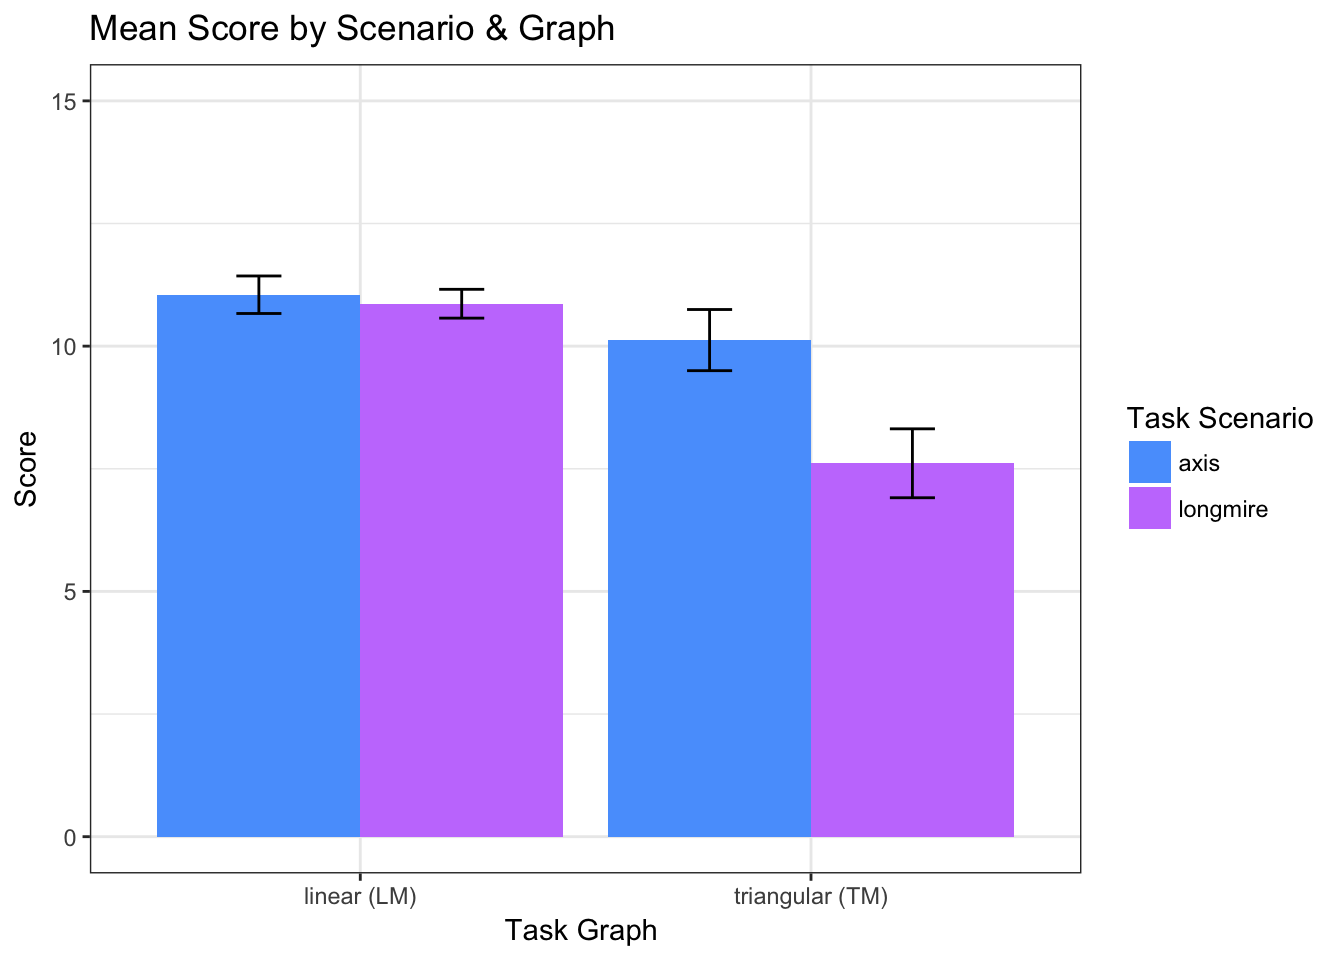
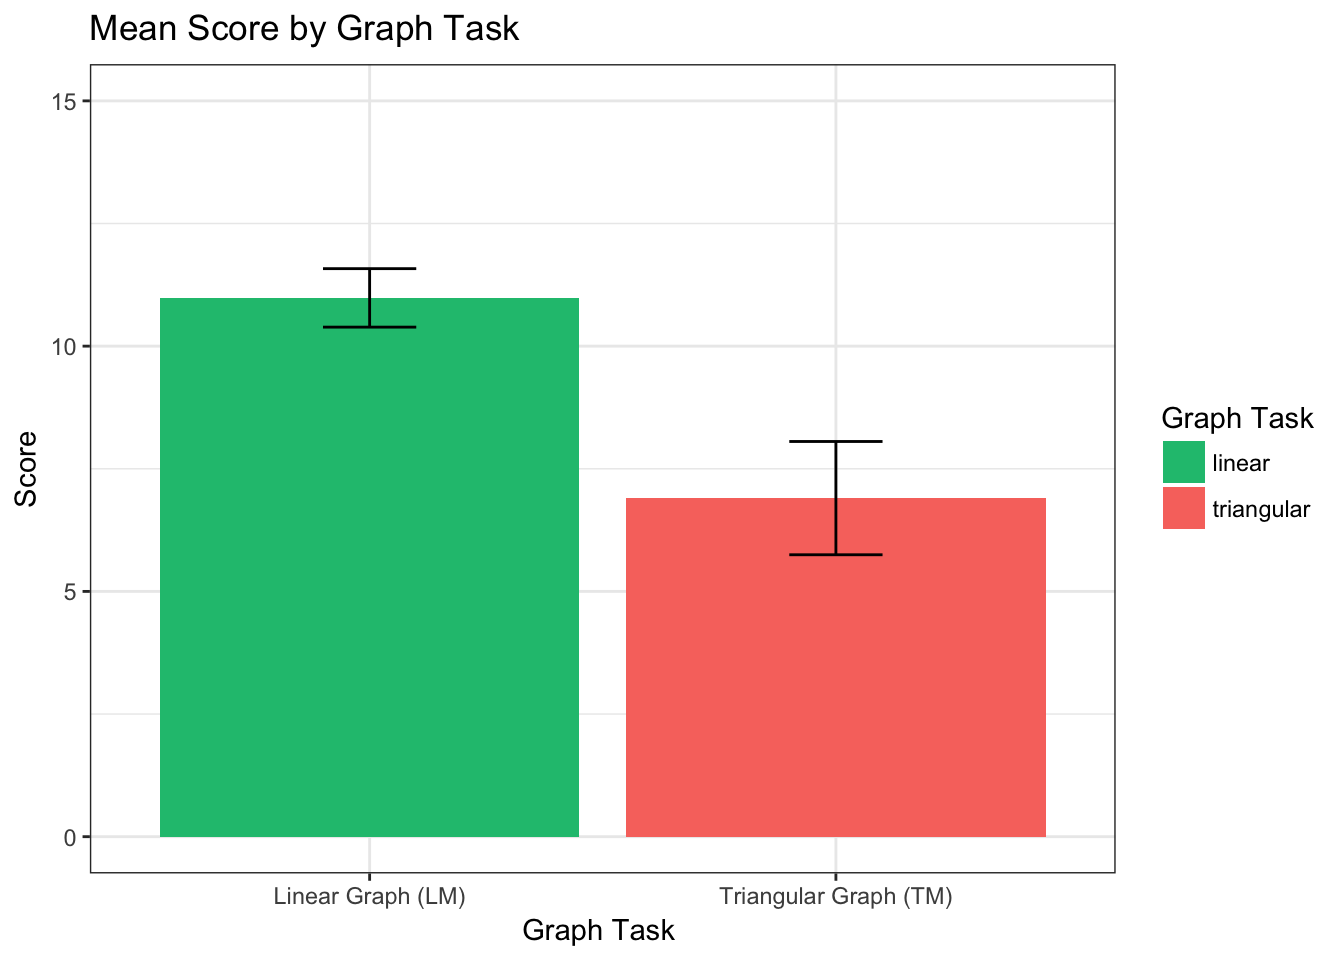
update S2 hypo testing

diff --git a/docs/Study2.html b/docs/Study2.html
@@ -371,6 +371,193 @@ mixedPlot_scenario &lt;- ggplot(l_scores, aes(condition,value, fill=variable))+ 
   #use scale_fill_manual to manually change colors 
 mixedPlot_scenario</code></pre>
 <p><img src="Study2_files/figure-html/unnamed-chunk-7-2.png" width="672" /></p>
+<div id="hypothesis-1-scaffold-conditon-and-graph-order-will-not-affect-performance-on-the-lm-graph-because-it-is-conventional-and-relatively-easy-to-read" class="section level5">
+<h5>Hypothesis 1: Scaffold conditon and graph-order will not affect performance on the LM graph, because it is conventional and relatively easy to read</h5>
+<p>When we compare LM scores both graph-orders and scaffold-conditions (and scenarios), we do not find significant differences</p>
+<pre class="r"><code>#explore descriptive statistics based on each IV
+
+#LM SCORES BY SCAFFOLD
+desc_control &lt;- by(w_scores$linear_score, list(w_scores$condition), stat.desc, basic=FALSE)
+desc_control
+## : 0
+##       median         mean      SE.mean CI.mean.0.95          var 
+##   11.0000000   10.9836066    0.2979821    0.5960530    5.4163934 
+##      std.dev     coef.var 
+##    2.3273146    0.2118898 
+## -------------------------------------------------------- 
+## : 1
+##       median         mean      SE.mean CI.mean.0.95          var 
+##   11.0000000   11.0677966    0.2848856    0.5702604    4.7884278 
+##      std.dev     coef.var 
+##    2.1882477    0.1977130 
+## -------------------------------------------------------- 
+## : 2
+##       median         mean      SE.mean CI.mean.0.95          var 
+##   11.0000000   10.8939394    0.2618998    0.5230500    4.5270396 
+##      std.dev     coef.var 
+##    2.1276841    0.1953090 
+## -------------------------------------------------------- 
+## : 3
+##       median         mean      SE.mean CI.mean.0.95          var 
+##   11.0000000   10.9193548    0.2790958    0.5580865    4.8294553 
+##      std.dev     coef.var 
+##    2.1976022    0.2012575 
+## -------------------------------------------------------- 
+## : 4
+##       median         mean      SE.mean CI.mean.0.95          var 
+##   11.0000000   10.8970588    0.2286922    0.4564716    3.5564091 
+##      std.dev     coef.var 
+##    1.8858444    0.1730599
+
+#LM SCORES BY GRAPH-ORDER
+desc_control &lt;- by(w_scores$linear_score, list(w_scores$order), stat.desc, basic=FALSE)
+desc_control
+## : LMFirst
+##       median         mean      SE.mean CI.mean.0.95          var 
+##   11.0000000   10.8636364    0.1767556    0.3491966    4.8113488 
+##      std.dev     coef.var 
+##    2.1934787    0.2019102 
+## -------------------------------------------------------- 
+## : TMFirst
+##       median         mean      SE.mean CI.mean.0.95          var 
+##   11.0000000   11.0308642    0.1629851    0.3218642    4.3033893 
+##      std.dev     coef.var 
+##    2.0744612    0.1880597
+
+#ONE WAY ANOVA ON LM_SCORE BY SCAFFOLD
+#construct contrasts for ANOVA model
+options(contrasts=c(&quot;contr.sum&quot;,&quot;contr.poly&quot;))
+
+simpleModel = ezANOVA(data = w_scores,
+                     dv = .(linear_score),
+                     wid = .(subject),
+                     between = .(condition),
+                     type = 3,
+                     detailed = TRUE)
+## Warning: Converting &quot;subject&quot; to factor for ANOVA.
+## Warning: Data is unbalanced (unequal N per group). Make sure you specified
+## a well-considered value for the type argument to ezANOVA().
+simpleModel
+## $ANOVA
+##        Effect DFn DFd          SSn      SSd            F             p
+## 1 (Intercept)   1 311 37802.682529 1429.846 8.222307e+03 9.970330e-226
+## 2   condition   4 311     1.343692 1429.846 7.306522e-02  9.902577e-01
+##   p&lt;.05          ges
+## 1     * 0.9635545750
+## 2       0.0009388633
+## 
+## $`Levene&#39;s Test for Homogeneity of Variance`
+##   DFn DFd      SSn     SSd         F        p p&lt;.05
+## 1   4 311 2.502129 499.865 0.3891861 0.816348
+
+#ONE WAY ANOVA ON LM_SCORE BY GRAPH-ORDER
+simpleModel = ezANOVA(data = w_scores,
+                     dv = .(linear_score),
+                     wid = .(subject),
+                     between = .(order),
+                     type = 3,
+                     detailed = TRUE)
+## Warning: Converting &quot;subject&quot; to factor for ANOVA.
+
+## Warning: Data is unbalanced (unequal N per group). Make sure you specified
+## a well-considered value for the type argument to ezANOVA().
+simpleModel
+## $ANOVA
+##        Effect DFn DFd          SSn      SSd            F             p
+## 1 (Intercept)   1 314 37845.891375 1428.982 8316.1366183 5.300368e-228
+## 2       order   1 314     2.207831 1428.982    0.4851418  4.866178e-01
+##   p&lt;.05         ges
+## 1     * 0.963615871
+## 2       0.001542654
+## 
+## $`Levene&#39;s Test for Homogeneity of Variance`
+##   DFn DFd         SSn      SSd           F         p p&lt;.05
+## 1   1 314 0.009384583 502.3577 0.005865858 0.9389994
+
+#ONE WAY ANOVA ON LM_SCORE BY SCENARIO
+simpleModel = ezANOVA(data = w_scores,
+                     dv = .(linear_score),
+                     wid = .(subject),
+                     between = .(lm_scenarios),
+                     type = 3,
+                     detailed = TRUE)
+## Warning: Converting &quot;subject&quot; to factor for ANOVA.
+
+## Warning: Data is unbalanced (unequal N per group). Make sure you specified
+## a well-considered value for the type argument to ezANOVA().
+simpleModel
+## $ANOVA
+##         Effect DFn DFd          SSn      SSd            F             p
+## 1  (Intercept)   1 314 37714.168900 1428.553 8289.6834729 8.583230e-228
+## 2 lm_scenarios   1 314     2.637255 1428.553    0.5796762  4.470107e-01
+##   p&lt;.05         ges
+## 1     * 0.963504004
+## 2       0.001842701
+## 
+## $`Levene&#39;s Test for Homogeneity of Variance`
+##   DFn DFd      SSn      SSd        F        p p&lt;.05
+## 1   1 314 2.707298 499.6598 1.701341 0.193068</code></pre>
+</div>
+<div id="hypothesis-2-learners-without-scaffolding-control-will-perform-better-with-the-lm-than-tm." class="section level5">
+<h5>Hypothesis 2: Learners without scaffolding (control) will perform better with the LM than TM.</h5>
+<pre class="r"><code>#explore descriptive statistics based on each IV
+desc_control &lt;- by(l_scores_control$value, list(l_scores_control$variable), stat.desc, basic=FALSE)
+desc_control
+## : linear_score
+##       median         mean      SE.mean CI.mean.0.95          var 
+##   11.0000000   10.9836066    0.2979821    0.5960530    5.4163934 
+##      std.dev     coef.var 
+##    2.3273146    0.2118898 
+## -------------------------------------------------------- 
+## : triangular_score
+##       median         mean      SE.mean CI.mean.0.95          var 
+##    6.0000000    6.9016393    0.5772106    1.1545931   20.3234973 
+##      std.dev     coef.var 
+##    4.5081590    0.6532012
+LM_mean = desc_control$linear_score[2]
+LM_SD = desc_control$linear_score[6]
+TM_mean = desc_control$triangular_score[2]
+TM_SD = desc_control$triangular_score[6]</code></pre>
+<p>If we compare LM and TM scores (across both graph-orders) for the participants in the control condition, we expect their LM scores will be significantly higer than the TM scores.</p>
+<pre class="r"><code>#CALULCULATE POSTHOC DIFFERENCE &amp; EFFECT SIZE
+mainEffectGraph  &lt;- t.test(value ~ variable, data=l_scores_control, paired=TRUE)
+mainEffectGraph
+## 
+##  Paired t-test
+## 
+## data:  value by variable
+## t = 7.0685, df = 60, p-value = 1.912e-09
+## alternative hypothesis: true difference in means is not equal to 0
+## 95 percent confidence interval:
+##  2.926815 5.237119
+## sample estimates:
+## mean of the differences 
+##                4.081967
+
+t &lt;-mainEffectGraph$statistic[[1]]
+t &lt;-round(t,2)
+df &lt;-mainEffectGraph$parameter[[1]]
+p &lt;-mainEffectGraph[3] 
+r &lt;- sqrt(t^2/(t^2+df))
+r &lt;-round(r,2)
+r
+## [1] 0.67</code></pre>
+<p>Across all factors, we see that LM scores (M = 10.98, SD = 2.33) are significantly higher than TM scores (M = 6.9, SD = 4.51), t(60) = 7.07, p = 1.911696710^{-9} , r = 0.67.</p>
+<pre class="r"><code>bar &lt;- ggplot(l_scores_control, aes(x = variable, y= value, fill=variable))
+bar + stat_summary(aes(y = value, group=variable), fun.y=mean,  geom=&quot;bar&quot;, position=&quot;dodge&quot;) +
+      stat_summary(fun.data = mean_cl_normal, geom=&quot;errorbar&quot;, position = position_dodge(width=0.9),width=0.2) +
+      labs (x = &quot;Graph Task &quot;, y= &quot;Score&quot;, fill=&quot;Graph Task&quot;) +
+      coord_cartesian(ylim=c(0,15)) +
+      scale_x_discrete(labels=c(&quot;linear_score&quot; = &quot;Linear Graph (LM)&quot;, &quot;triangular_score&quot; = &quot;Triangular Graph (TM)&quot;)) +
+      theme_bw() +
+      theme(strip.background = element_blank()) +
+      ggtitle(&quot;Mean Score by Graph Task&quot;)+
+      scale_fill_manual(values = c(green,red),
+                        name = &quot;Graph Task&quot;,
+                        breaks =c(&quot;linear_score&quot;, &quot;triangular_score&quot;),
+                        labels =c(&quot;linear&quot;,&quot;triangular&quot;))</code></pre>
+<p><img src="Study2_files/figure-html/unnamed-chunk-11-1.png" width="672" /></p>
+</div>
 </div>
 <div id="hypothesis-testing" class="section level4">
 <h4>Hypothesis Testing</h4>
@@ -448,7 +635,7 @@ bar + stat_summary(aes(y = value, group=variable), fun.y=mean,  geom=&quot;bar&q
                         name = &quot;Graph Task&quot;,
                         breaks =c(&quot;linear_score&quot;, &quot;triangular_score&quot;),
                         labels =c(&quot;linear&quot;,&quot;triangular&quot;))</code></pre>
-<p><img src="Study2_files/figure-html/unnamed-chunk-10-1.png" width="672" /></p>
+<p><img src="Study2_files/figure-html/unnamed-chunk-13-1.png" width="672" /></p>
 <pre class="r"><code>#CALULCULATE POSTHOC DIFFERENCE &amp; EFFECT SIZE
 mainEffectGraph  &lt;- t.test(value ~ variable, data=l_scores, paired=TRUE)
 mainEffectGraph</code></pre>
@@ -488,7 +675,7 @@ bar + stat_summary(aes(y = value, group=lm_scenarios), fun.y=mean,  geom=&quot;b
                         name = &quot;Task Scenario&quot;,
                         breaks =c(&quot;axis&quot;,&quot;longmire&quot;),
                         labels =c(&quot;axis&quot;,&quot;longmire&quot;))</code></pre>
-<p><img src="Study2_files/figure-html/unnamed-chunk-12-1.png" width="672" /></p>
+<p><img src="Study2_files/figure-html/unnamed-chunk-15-1.png" width="672" /></p>
 <pre class="r"><code>dots &lt;- ggplot(l_scores, aes(x = lm_scenarios, y= value, color=variable))
 dots + stat_summary(aes(y = value, group=variable), fun.y=mean,  geom=&quot;point&quot;, position = position_dodge(width=0.1),width=0.2) +
       stat_summary(fun.data = mean_cl_normal, geom=&quot;errorbar&quot;, position = position_dodge(width=0.1),width=0.2) +
@@ -504,7 +691,7 @@ dots + stat_summary(aes(y = value, group=variable), fun.y=mean,  geom=&quot;poin
                         breaks =c(&quot;linear_score&quot;, &quot;triangular_score&quot;),
                         labels =c(&quot;linear (LM)&quot;,&quot;triangular (TM)&quot;))</code></pre>
 <pre><code>## Warning: Ignoring unknown parameters: width</code></pre>
-<p><img src="Study2_files/figure-html/unnamed-chunk-13-1.png" width="672" /></p>
+<p><img src="Study2_files/figure-html/unnamed-chunk-16-1.png" width="672" /></p>
 </div>
 <div id="interaction-scaffold-graph" class="section level4">
 <h4>INTERACTION: Scaffold &amp; Graph</h4>
@@ -539,7 +726,7 @@ mixedPlot_order &lt;- ggplot(l_times, aes(condition,value, fill=variable))+ geom
                        breaks=c(&quot;LM_T_M&quot;, &quot;TM_T_M&quot;),
                        labels=c(&quot;linear&quot;, &quot;triangular&quot;)) 
 mixedPlot_order</code></pre>
-<p><img src="Study2_files/figure-html/unnamed-chunk-16-1.png" width="672" /></p>
+<p><img src="Study2_files/figure-html/unnamed-chunk-19-1.png" width="672" /></p>
 <pre class="r"><code>#BOXPLOT BY CONDITION, FACET WITH ORDER AND SCENARIO
 mixedPlot_scenario &lt;- ggplot(l_times, aes(condition,value, fill=variable))+ geom_boxplot() +
  facet_grid(lm_scenarios~order, labeller=labeller(order = order_labels)) +
@@ -552,7 +739,7 @@ mixedPlot_scenario &lt;- ggplot(l_times, aes(condition,value, fill=variable))+ g
                        breaks=c(&quot;LM_T_M&quot;, &quot;TM_T_M&quot;),
                        labels=c(&quot;linear&quot;, &quot;triangular&quot;))
 mixedPlot_scenario</code></pre>
-<p><img src="Study2_files/figure-html/unnamed-chunk-16-2.png" width="672" /></p>
+<p><img src="Study2_files/figure-html/unnamed-chunk-19-2.png" width="672" /></p>
 </div>
 <div id="hypothesis-testing-1" class="section level4">
 <h4>Hypothesis Testing</h4>
@@ -616,7 +803,7 @@ mixedModel = ezANOVA(data = l_times,
 <div id="main-effect-graph-on-time" class="section level4">
 <h4>MAIN EFFECT: Graph on TIME</h4>
 <p>On average, participants spent significantly more time on triangular model task (M = 10.84, SD = 3.28) than on the linear model (M = 9.20, SD = 2.53), t(316) = -9.46, p &lt; 0.001, r = 0.47</p>
-<p><img src="Study2_files/figure-html/unnamed-chunk-18-1.png" width="672" /></p>
+<p><img src="Study2_files/figure-html/unnamed-chunk-21-1.png" width="672" /></p>
 <pre><code>## 
 ##  Paired t-test
 ## 
